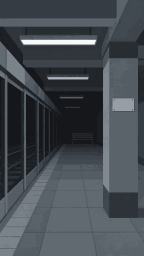
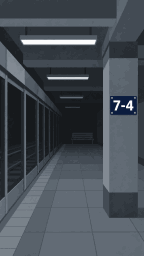
Add files via upload

Changed region(s): [[0.75, 0.375, 0.9722, 0.4688], [0.3333, 0.2812, 0.6111, 0.3125]]

diff --git a/index.html b/index.html
@@ -116,6 +116,8 @@
   .propwrap { width: calc(var(--u) * 144); height: calc(var(--u) * 192); overflow: hidden; flex: none; }
   .propcv.still { animation: none !important; }
   .propcv { position: static; width: 100%; height: 100%; transform-origin: 50% 55%; animation: push 7s steps(14) forwards; }
+  .propcv.smile { animation: none; transform-origin: 50% 37%; } .propcv.smile.in { animation: creep 4.2s steps(42) forwards; }
+  @keyframes creep { from { transform: scale(1); } to { transform: scale(1.26); } }
   @keyframes push { from { transform: scale(1); } to { transform: scale(1.09); } }
   .proptext { white-space: pre-line; margin-top: calc(var(--u) * 5); color: #d2d2cb; }
   #ov.doc { background: rgba(0, 0, 0, .9); justify-content: flex-start; padding-top: calc(var(--u) * 16); }
@@ -157,9 +159,10 @@
   .scr.sheet .ink.psig { font-family: "Galmuri11", monospace; font-size: calc(var(--u) * 9); letter-spacing: calc(var(--u) * 1); color: #1c2a66; }
   .scr.sheet .ink.cpy { color: #3a3a3c; }
   .scr.sheet .ink.ruled { line-height: calc(var(--u) * 8.35); color: #23304f; }
+  .scr.sheet .kbtn { position: absolute; width: calc(var(--u) * 28); height: calc(var(--u) * 27); border-radius: calc(var(--u) * 4); z-index: 3; cursor: pointer; } .scr.sheet .kbtn.on { background: rgba(255, 255, 255, .45); }
   .scr.sheet .ink.key { font-family: "Galmuri11", monospace; font-size: calc(var(--u) * 13); text-align: center; color: #1f3340; line-height: 1; }
   .scr.sheet .ink.ctr { text-align: center; }
-  .scr.sheet .overcv { position: absolute; left: 0; top: 0; }
+  .scr.sheet .overcv { position: absolute; left: 0; top: 0; z-index: 4; pointer-events: none; }
   .scr.sheet .ink.wh { color: #e6e6df; } .scr.sheet .ink.bl { color: #5b8cf0; } .scr.sheet .ink.rd { color: #ff5a4f; }
   .scr.sheet .ink.tight { line-height: 1.3; }
   .scr.sheet .ink.plateno { font-family: "Galmuri11", monospace; font-size: calc(var(--u) * 35); letter-spacing: 0; text-align: center; color: #17181c; line-height: 1; }
@@ -269,7 +272,7 @@
 <script>
 (function () {
   'use strict';
-  var ASSETS = {"bg": ["bg_a", "bg_b", "bg_empty_a", "bg_empty_b", "bg_shut1", "bg_shut2", "bg_shutter", "e1_booth", "e1_desk", "e1_door", "e1_hall", "e1_hospital", "e1_laundry", "e1_lot", "e1_platform", "e1_room", "e1_station", "e1_store", "e1_studio", "home", "landing"], "dohyeon": ["face_E0", "face_A1", "face_A2", "face_A3", "face_A4", "face_B1", "face_B2", "face_B3", "face_B4", "eye_E0_half", "eye_E0_closed", "mouth_E0_1", "mouth_E0_2", "mouth_A4_1", "mouth_A4_2", "mouth_B4_1", "mouth_B4_2", "breath_1", "breath_2", "breath_3", "breath_4", "breath_5"], "jiwu": ["face_E0", "face_P1_t1", "face_P1_t2", "face_P1_t3", "face_P1_t4", "face_P1", "face_P2_t1", "face_P2_t2", "face_P2_t3", "face_P2_t4", "face_P2", "eye_E0_half", "eye_E0_closed", "mouth_E0_1", "mouth_E0_2", "mouth_P1_1", "mouth_P1_2", "mouth_P2_1", "mouth_P2_2", "breath_1", "breath_2", "breath_3", "breath_4", "breath_5"], "malsun": ["face_E0", "face_A1", "face_A2", "face_A3", "face_A4", "face_P1_t1", "face_P1_t2", "face_P1_t3", "face_P1_t4", "face_P1", "eye_E0_half", "eye_E0_closed", "mouth_E0_1", "mouth_E0_2", "mouth_A4_1", "mouth_A4_2", "mouth_P1_1", "mouth_P1_2", "breath_1", "breath_2", "breath_3", "breath_4", "breath_5"], "minjae": ["face_E0", "face_A1", "face_A2", "face_A3", "face_A4", "face_B1", "face_B2", "face_B3", "face_B4", "face_C1", "face_C2", "face_C3", "face_C4", "face_P1_t1", "face_P1_t2", "face_P1_t3", "face_P1_t4", "face_P1", "face_P2_t1", "face_P2_t2", "face_P2_t3", "face_P2_t4", "face_P2", "eye_E0_half", "eye_E0_closed", "eye_B4_half", "eye_B4_closed", "mouth_E0_1", "mouth_E0_2", "mouth_A4_1", "mouth_A4_2", "mouth_B4_1", "mouth_B4_2", "mouth_C4_1", "mouth_C4_2", "mouth_P1_1", "mouth_P1_2", "mouth_P2_1", "mouth_P2_2", "breath_1", "breath_2", "breath_3", "breath_4", "breath_5"], "prop": ["call", "drawer_a", "drawer_b", "drawer_c", "e1_bag", "e1_bench", "e1_box", "e1_butts", "e1_carbag", "e1_card", "e1_cctv", "e1_chain", "e1_form", "e1_forms", "e1_hand", "e1_keypad", "e1_keypad_finger", "e1_lock", "e1_memo", "e1_mirror", "e1_navi", "e1_plate", "e1_rack", "e1_register", "e1_scarf", "e1_scarf_b", "e1_shelf", "lock", "p_card", "p_idcard", "p_idcopy", "p_ledger", "p_memo", "p_notice", "p_proxy", "p_receipt", "phone_back", "phone_front", "photo", "sticker", "umbrella", "wallet"], "seojin": ["face_E0", "face_A1", "face_A2", "face_A3", "face_A4", "face_B1", "face_B2", "face_B3", "face_B4", "face_P1_t1", "face_P1_t2", "face_P1_t3", "face_P1_t4", "face_P1", "eye_E0_half", "eye_E0_closed", "mouth_E0_1", "mouth_E0_2", "mouth_A4_1", "mouth_A4_2", "mouth_B4_1", "mouth_B4_2", "mouth_P1_1", "mouth_P1_2", "breath_1", "breath_2", "breath_3", "breath_4", "breath_5"], "taeho": ["face_E0", "face_B1", "face_B2", "face_B3", "face_B4", "face_P1_t1", "face_P1_t2", "face_P1_t3", "face_P1_t4", "face_P1", "face_P2_t1", "face_P2_t2", "face_P2_t3", "face_P2_t4", "face_P2", "eye_E0_half", "eye_E0_closed", "mouth_E0_1", "mouth_E0_2", "mouth_B4_1", "mouth_B4_2", "mouth_P1_1", "mouth_P1_2", "mouth_P2_1", "mouth_P2_2", "breath_1", "breath_2", "breath_3", "breath_4", "breath_5"]};
+  var ASSETS = {"bg": ["bg_a", "bg_b", "bg_empty_a", "bg_empty_b", "bg_shut1", "bg_shut2", "bg_shut3", "bg_shutter", "e1_booth", "e1_desk", "e1_door", "e1_hall", "e1_hospital", "e1_laundry", "e1_lot", "e1_platform", "e1_pstairs", "e1_room", "e1_stairs", "e1_station", "e1_store", "e1_studio", "home", "landing"], "dohyeon": ["face_E0", "face_A1", "face_A2", "face_A3", "face_A4", "face_B1", "face_B2", "face_B3", "face_B4", "eye_E0_half", "eye_E0_closed", "mouth_E0_1", "mouth_E0_2", "mouth_A4_1", "mouth_A4_2", "mouth_B4_1", "mouth_B4_2", "breath_1", "breath_2", "breath_3", "breath_4", "breath_5"], "jiwu": ["face_E0", "face_P1_t1", "face_P1_t2", "face_P1_t3", "face_P1_t4", "face_P1", "face_P2_t1", "face_P2_t2", "face_P2_t3", "face_P2_t4", "face_P2", "eye_E0_half", "eye_E0_closed", "mouth_E0_1", "mouth_E0_2", "mouth_P1_1", "mouth_P1_2", "mouth_P2_1", "mouth_P2_2", "breath_1", "breath_2", "breath_3", "breath_4", "breath_5"], "malsun": ["face_E0", "face_A1", "face_A2", "face_A3", "face_A4", "face_P1_t1", "face_P1_t2", "face_P1_t3", "face_P1_t4", "face_P1", "eye_E0_half", "eye_E0_closed", "mouth_E0_1", "mouth_E0_2", "mouth_A4_1", "mouth_A4_2", "mouth_P1_1", "mouth_P1_2", "breath_1", "breath_2", "breath_3", "breath_4", "breath_5"], "minjae": ["face_E0", "face_A1", "face_A2", "face_A3", "face_A4", "face_B1", "face_B2", "face_B3", "face_B4", "face_C1", "face_C2", "face_C3", "face_C4", "face_P1_t1", "face_P1_t2", "face_P1_t3", "face_P1_t4", "face_P1", "face_P2_t1", "face_P2_t2", "face_P2_t3", "face_P2_t4", "face_P2", "eye_E0_half", "eye_E0_closed", "eye_B4_half", "eye_B4_closed", "mouth_E0_1", "mouth_E0_2", "mouth_A4_1", "mouth_A4_2", "mouth_B4_1", "mouth_B4_2", "mouth_C4_1", "mouth_C4_2", "mouth_P1_1", "mouth_P1_2", "mouth_P2_1", "mouth_P2_2", "breath_1", "breath_2", "breath_3", "breath_4", "breath_5"], "prop": ["call", "drawer_a", "drawer_b", "drawer_c", "e1_bag", "e1_bench", "e1_box", "e1_butts", "e1_carbag", "e1_card", "e1_cctv", "e1_chain", "e1_form", "e1_forms", "e1_hand", "e1_keypad", "e1_lock", "e1_memo", "e1_mirror", "e1_navi", "e1_plate", "e1_rack", "e1_register", "e1_scarf", "e1_scarf_b", "e1_shelf", "e1_smile", "lock", "p_card", "p_idcard", "p_idcopy", "p_ledger", "p_memo", "p_notice", "p_proxy", "p_receipt", "phone_back", "phone_front", "photo", "sticker", "umbrella", "wallet"], "seojin": ["face_E0", "face_A1", "face_A2", "face_A3", "face_A4", "face_B1", "face_B2", "face_B3", "face_B4", "face_P1_t1", "face_P1_t2", "face_P1_t3", "face_P1_t4", "face_P1", "eye_E0_half", "eye_E0_closed", "mouth_E0_1", "mouth_E0_2", "mouth_A4_1", "mouth_A4_2", "mouth_B4_1", "mouth_B4_2", "mouth_P1_1", "mouth_P1_2", "breath_1", "breath_2", "breath_3", "breath_4", "breath_5"], "taeho": ["face_E0", "face_B1", "face_B2", "face_B3", "face_B4", "face_P1_t1", "face_P1_t2", "face_P1_t3", "face_P1_t4", "face_P1", "face_P2_t1", "face_P2_t2", "face_P2_t3", "face_P2_t4", "face_P2", "eye_E0_half", "eye_E0_closed", "mouth_E0_1", "mouth_E0_2", "mouth_B4_1", "mouth_B4_2", "mouth_P1_1", "mouth_P1_2", "mouth_P2_1", "mouth_P2_2", "breath_1", "breath_2", "breath_3", "breath_4", "breath_5"]};
 
   // ------------------------------------------------------------------ layout + helpers
   var root = document.documentElement, stage = document.getElementById('stage');
@@ -322,13 +325,6 @@
     if (B.name === 'landing' || B.name === 'home') { bctx.drawImage(img.bg[B.name], 0, 0); return; }
     if (B.name.indexOf('e1_') === 0) {              // episode 1 backdrops: received pictures, shown as they are
       bctx.drawImage(img.bg[B.name], 0, 0);
-      if (B.name === 'e1_platform') {               // the pillar plate is blank in the picture: 7-4 is written here
-        bctx.fillStyle = '#2b3038'; var x = 117;
-        ['7', '-', '4'].forEach(function (ch) {
-          if (ch === '-') { bctx.fillRect(x, 105, 2, 1); x += 3; return; }
-          var d = DIG[ch]; for (var i = 0; i < 15; i++) if (d.charAt(i) === '1') bctx.fillRect(x + i % 3, 103 + Math.floor(i / 3), 1, 1); x += 4;
-        });
-      }
       return;
     }
     var key = B.name.indexOf('bg_shut') === 0 ? B.name : B.name + (B.dim ? '_b' : '_a');
@@ -607,6 +603,18 @@
       docFinish = function () { clearTimeout(docTimer); if (!w.querySelector('.stick')) w.appendChild(sticker(false)); docDone(); };
       return [w, el('div', 'proptext fs', '‘경찰 인계 대기’\n스티커를 붙인다.')];
     },
+    smile: function () {                              // the man in the car: only two points of light, then his phone lights his mouth, then it comes closer
+      var c = el('canvas', 'propcv smile'); c.width = 144; c.height = 192;
+      var x = c.getContext('2d'), wrap = el('div', 'propwrap'); wrap.appendChild(c);
+      function dark() { x.drawImage(img.prop.e1_smile, 0, 0); x.fillStyle = 'rgba(0,0,0,.93)'; x.fillRect(0, 0, 144, 192); x.fillStyle = '#d3e9fb'; x.fillRect(60, 69, 1, 1); x.fillRect(84, 69, 1, 1); }
+      function lit() { x.drawImage(img.prop.e1_smile, 0, 0); }
+      dark(); docBusy = true;
+      docTimer = setTimeout(function () { lit();
+        docTimer = setTimeout(function () { dark();
+          docTimer = setTimeout(function () { lit(); c.classList.add('in');
+            docTimer = setTimeout(docDone, 3600); }, 110); }, 70); }, 1500);
+      return [wrap];
+    },
     prop: function (o) {                              // a close-up cut of one object, slowly pushing in
       var c = el('canvas', 'propcv'); c.width = 144; c.height = 192;
       var x = c.getContext('2d'); x.imageSmoothingEnabled = false; x.drawImage(img.prop[o.name], 0, 0);
@@ -705,7 +713,30 @@
       if (o.over) { var c2 = el('canvas', 'overcv'); c2.width = 144; c2.height = 192; var x2 = c2.getContext('2d'); x2.imageSmoothingEnabled = false; x2.drawImage(img.prop[o.over], 0, 0); w.appendChild(c2); }
       return o.text ? [w, el('div', 'proptext fs', o.text)] : [w];
     },
-    plate: function () { var w = sheet('e1_plate'); ink(w, 'plateno', '4412', 45, 85, 92); return [w]; },   // only the last four catch the light
+    keypad: function () {                             // the door lock: the player keys the code in. Wrong tries cost nothing; the thought under the picture says a little more each time
+      var w = sheet('e1_keypad'), keys = ['1', '2', '3', '4', '5', '6', '7', '8', '9', '*', '0', '#'], got = '', miss = 0;
+      var hint = ['걔 생일.', '걔 생일.\n4월생이다.', '4월 12일.\n0, 4, 1, 2.'];
+      var txt = el('div', 'proptext fs', ''), lock = false;
+      function paint(msg) { txt.textContent = (msg || hint[Math.min(miss, 2)]) + '\n' + [0, 1, 2, 3].map(function (i) { return i < got.length ? '●' : '○'; }).join(' '); }
+      keys.forEach(function (k, i) {
+        var b = el('div', 'kbtn'); b.style.left = 'calc(var(--u) * ' + [25.5, 57.5, 89][i % 3] + ')'; b.style.top = 'calc(var(--u) * ' + [37, 70, 103, 136.5][Math.floor(i / 3)] + ')';
+        b.addEventListener('click', function () {
+          if (lock || !docBusy) return;
+          b.classList.add('on'); setTimeout(function () { b.classList.remove('on'); }, 140);
+          if (k === '*' || k === '#') { got = ''; return paint(); }
+          got += k; paint();
+          if (got.length < 4) return;
+          lock = true;
+          if (got === '0412') { paint('열린다.'); docTimer = setTimeout(function () { docBusy = false; next(); }, 650); return; }
+          miss++; stage.classList.add('shake'); paint('삐빅.');
+          docTimer = setTimeout(function () { stage.classList.remove('shake'); got = ''; lock = false; paint(); }, 520);
+        });
+        w.appendChild(b);
+      });
+      docBusy = true; paint();
+      return [w, txt];
+    },
+    plate: function () { return [sheet('e1_plate')]; },   // only the last four catch the light
     tp: function (o) {                                // a sheet with writing: o.h heading, o.t body, o.k extra class
       var w = el('div', 'tp fs-s ' + (o.k || '')); if (o.h) w.appendChild(el('div', 'h', o.h)); w.appendChild(el('div', null, o.t)); return [w];
     },
@@ -1117,23 +1148,31 @@
     var ph = F.PHONE, s = [
       { t: 'save', id: 'e1s1' }, { t: 'pov', who: DH },
       { t: 'cap', lines: [['', '백도현'], ['dim', '금요일 18:00']] }, CLK('금 18:00'), BG('e1_booth'),
-      N('민원실에서 들은 건 한 줄이다.\n집 앞에 누가 서 있었다고.\n주말 전에 습득 기록을 봐야 한다.'),
+      N('수요일에 맡은 실종 건이다.\n성인이라 급한 일은 아니라고 봤다.'),
+      N('방금 민원실에서 전화가 왔다.\n동생 집 앞에\n누가 자꾸 서 있었다고.'),
+      N('마지막 신호는 이 역이다.\n오늘 기록을 못 보면\n월요일까지 기다려야 한다.'),
       { t: 'enter', ch: 'jiwu' },
-      T(DH, '들어가도 되겠습니까.'), T(DH, '오늘 일을 순서대로\n듣겠습니다.'),
+      T(DH, '들어가도 되겠습니까.'), T(ME, '아, 네…\n잠시만요.'),
+      C('셔터를 조금 올린다.'),
+      T(DH, '서평경찰서 백도현입니다.'), T(DH, '윤서연 씨 실종 건\n담당입니다.'),
+      T(ME, '실종이요…?\n아까 그 언니분 동생이요?'),
+      T(DH, '네.'), T(DH, '그 휴대폰 때문에\n왔습니다.'),
+      T(ME, '아까 물으신 거요…\n찾으러 온 사람이\n또 있었어요.'),
+      T(DH, '오늘 일을 순서대로\n듣겠습니다.'),
       N('마감 시간이다.\n오래 붙잡을 수는 없다.'),
       { t: 'pick5', id: 'q1', word: '물을 수 있는 건', unit: '번', items: [
         { label: '찾으러 온 사람이 몇 명이었습니까?', steps: function () { return [T(DH, '그 휴대폰을 찾으러 온 사람이\n몇 명이었습니까?'), T(ME, '두 명이요.'), T(ME, '언니분, 그리고\n남자친구라는 분.')]; } },
-        { label: '남자가 뭘 내밀었습니까?', steps: function () {
-          F.q2 = 1;
-          var r = [T(DH, '남자가 뭘 내밀었습니까?'), T(ME, '위임장하고 신분증이요.\n강민재.'), T(ME, '서류는 빠진 게\n없었어요.')];
-          if (F.ASK_CALL) r.push(T(ME, '오늘 2시 10분에 받았다는\n문자도 보여줬어요.'), T(ME, '그 휴대폰은 수요일부터\n여기 있었는데요.'));
-          return r; } },
         { label: '휴대폰은 지금 어디 있습니까?', steps: function () {
           var r = [T(DH, '휴대폰은 지금\n어디 있습니까?')];
           if (ph === '센터') r.push(T(ME, '서랍에 있습니다.'));
           if (ph === '언니') r.push(T(ME, '언니분께 드렸습니다.', { face: 'P2' }), T(ME, '규정 위반인 건 압니다.'), { t: 'fx', face: 'E0' },
             C('휴대폰을 꺼내\n서에 전화를 건다.'), T(DH, '…접니다. 윤서진 씨가 낸\n휴대폰, 들어와 있습니까?'), T(DH, '…네.'), T(DH, '확인했습니다.'));
           if (ph === '민재') r.push(T(ME, '…그분께 내드렸습니다.', { face: 'P2' }), T(ME, '서류가 다 맞아서요.'), { t: 'fx', face: 'E0' });
+          return r; } },
+        { label: '남자가 뭘 내밀었습니까?', steps: function () {
+          F.q2 = 1;
+          var r = [T(DH, '남자가 뭘 내밀었습니까?'), T(ME, '위임장하고 신분증이요.\n강민재.'), T(ME, '서류는 빠진 게\n없었어요.')];
+          if (F.ASK_CALL) r.push(T(ME, '오늘 2시 10분에 받았다는\n문자도 보여줬어요.'), T(ME, '그 휴대폰은 수요일부터\n여기 있었는데요.'));
           return r; } },
         { label: '남자가 한 말 중에 걸리는 게?', steps: function () {
           var r = [T(DH, '남자가 한 말 중에\n걸리는 게 있었습니까?')];
@@ -1152,7 +1191,9 @@
       s = s.concat(give('E6')); s.push(N('서류는 완벽했다.')); }
     s.push(R(function () { return F.q2 ? [] : [T(DH, '그 남자, 이름은\n기억나십니까?'), T(ME, '강민재요.\n위임장이랑 신분증에서 봤어요.')]; }),
       T(DH, '오늘 말씀하신 건\n제가 다 받아 적었습니다.'), T(DH, '퇴근길에 누가 따라오면\n바로 전화 주세요.'),
-      { t: 'exit' }, { t: 'run', fn: e1s2 });
+      T(ME, '…저,\n그분 괜찮은 거죠?'), T(DH, '찾는 중입니다.'),
+      { t: 'exit' }, C('셔터가 끝까지\n내려간다.'), N('괜찮다고는\n말할 수 없었다.'),
+      { t: 'run', fn: e1s2 });
     return s;
   }
 
@@ -1161,7 +1202,12 @@
     function look(n, shot, line, x) { return function () { F.L2.push(n); return [typeof shot === 'string' ? C(shot) : shot, N(line, x)]; }; }
     return [
       { t: 'save', id: 'e1s2' }, { t: 'pov', who: ME },
-      { t: 'cap', lines: [['', '한지우'], ['dim', '금요일 18:40']] }, CLK('금 18:40'), BG('e1_lot'),
+      { t: 'cap', lines: [['', '한지우'], ['dim', '금요일 18:40']] }, CLK('금 18:40'), { t: 'bg', name: 'bg_shut3', time: '18:40' },
+      N('형사가 가고 나서\n대장을 몇 번이나 다시 맞춰 봤다.'),
+      N('박 주임님께 문자를 쓰다 지웠다.\n뭐라고 써야 할지 모르겠다.'),
+      R(function () { return F.PHONE === '민재' ? [C('6번 칸이\n비어 있다.'), N('규정대로 했다.\n…그런데.')] : []; }),
+      C('서랍을 잠근다.\n가방을 멘다.\n불을 끈다.'),
+      BG('e1_lot'),
       N('형사는 명함을 두고 갔다.\n누가 따라오면\n전화하라고 했다.'),
       N(F.PHONE !== '민재' ? '그 남자는\n내 이름을 안다.' : '그 남자는\n휴대폰을 가져갔다.'),
       C('시동이 걸린 검은 차 한 대.\n차 안에서 불빛이\n켜졌다 꺼진다.'),
@@ -1175,7 +1221,8 @@
         { label: '진열대 끝 볼록거울', steps: look(5, { t: 'doc', id: 'prop', opt: { name: 'e1_mirror', text: '내 모습이 비친다.' } }, '얼굴 하얗네.') }
       ] },
       C('운전석 남자의 고개가\n천천히 편의점 쪽으로 돈다.'),
-      N('봤다.', { spd: 130, shake: 500 }),
+      { t: 'doc', id: 'smile' },
+      N('눈이 마주쳤다..!', { shake: 500 }),
       { t: 'choose', opts: [
         { label: '도현에게 전화한다', go: function () {
           F.CAR = 1;
@@ -1184,9 +1231,9 @@
           if (has(F.L2, 2)) r.push(T(ME, '조수석 문에 금색 체인 끈이\n끼어 있었어요.'));
           if (has(F.L2, 3)) r.push(T(ME, '바닥에 꽁초가 많았어요.'));
           return r.concat([T(DH, '거기 계세요.\n차가 가기 전엔 나오지 마세요.'), T(DH, '나머진 제가 봅니다.'),
-            C('차의 헤드라이트가 켜진다.\n차가 주차장을 빠져나간다.'), N('손이 아직 떨린다.')]); } },
+            C('차의 헤드라이트가 켜진다.\n차가 주차장을 빠져나간다.'), N('손이 아직 떨린다.'), N('오늘은\n택시를 탔다.')]); } },
         { label: '차가 갈 때까지 기다린다', go: function () {
-          return [N('아니다.\n퇴근하는 사람일 뿐이다.\n의식하지 말자.'), C('헤드라이트가 켜진다.\n차가 천천히 빠져나간다.'), N('…갔다.\n별일 아니었다.')]; } }
+          return [N('아니다.\n퇴근하는 사람일 뿐이다.\n의식하지 말자.'), C('헤드라이트가 켜진다.\n차가 천천히 빠져나간다.'), N('…갔다.\n별일 아니었다.'), N('그래도 오늘은\n택시를 탔다.')]; } }
       ] },
       { t: 'run', fn: e1s3 }];
   }
@@ -1197,11 +1244,13 @@
     return [
       { t: 'save', id: 'e1s3' }, { t: 'pov', who: SJ },
       { t: 'cap', lines: [['', '윤서진'], ['dim', '금요일 19:10']] }, CLK('금 19:10'), BG(),
-      N('형사가 동생 집을\n같이 보자고 했다.\n먼저 와 버렸다.'),
+      N('민원실 직원이\n형사한테 전화를 걸어 줬다.\n처음으로 누가 내 말을 들어 줬다.'),
+      R(function () { return F.PHONE === '언니' ? [N('휴대폰은 민원실에 맡겼다.\n증거물이라고 했다.')] : []; }),
+      N('형사가 동생 집을\n같이 보자고 했다.\n기다릴 수가 없어서 먼저 왔다.'),
+      BG('e1_stairs'),
       N('본가에도 전화해 봤다.\n엄마는 아무것도 모른다.'),
-      { t: 'doc', id: 'e1obj', opt: { pic: 'e1_keypad', over: 'e1_keypad_finger', inks: [['key', '1', 26.5, 43, 26], ['key', '2', 58, 43, 26], ['key', '3', 90, 43, 26], ['key', '4', 26.5, 76, 26], ['key', '5', 58, 76, 26], ['key', '6', 90, 76, 26], ['key', '7', 26.5, 109.5, 26], ['key', '8', 58, 109.5, 26], ['key', '9', 90, 109.5, 26], ['key', '*', 26.5, 143, 26], ['key', '0', 58, 143, 26], ['key', '#', 90, 143, 26]] } },
-      N('걔 생일.', { spd: 130 }),
-      { t: 'act', label: '0 · 4 · 1 · 2' },
+      BG(),
+      { t: 'doc', id: 'keypad' },
       BG('e1_studio'), C('문이 열린다.'),
       N('수요일 아침에 왔을 땐\n그냥 빈집인 줄 알았다.\n고양이 밥만 주고 갔다.'),
       { t: 'pick5', id: 'l3', word: '살펴볼 수 있는 건', unit: '곳', items: [
@@ -1236,6 +1285,8 @@
       C('초인종.\n현관 앞, 형사의 목소리.'),
       T(DH, '동생분 휴대폰\n잠금 번호를 아십니까?'), T(SJ, '걔는 비밀번호를\n다 생일로 해요.\n0412.'),
       R(function () { return has(F.L3, 4) && !F.bagQ ? [T(SJ, '걔 가방도 없어요.\n금색 체인 달린 거요.')] : []; }),
+      T(DH, '동생분 방,\n제가 좀 보겠습니다.'),
+      N('형사가 동생 방에 들어온다.\n이제야 진짜 일이 된 것 같다.'),
       { t: 'run', fn: e1s4 }];
   }
 
@@ -1281,7 +1332,9 @@
   function e1s4() {
     var s = [
       { t: 'save', id: 'e1s4' }, { t: 'pov', who: DH },
-      { t: 'cap', lines: [['', '백도현'], ['dim', '금요일 20:00']] }, CLK('금 20:00'), BG('e1_desk'),
+      { t: 'cap', lines: [['', '백도현'], ['dim', '금요일 20:00']] }, CLK('금 19:58'), BG('e1_pstairs'),
+      N('원룸에서\n서로 돌아왔다.'),
+      CLK('금 20:00'), BG('e1_desk'),
       N('실종 나흘째.\n화요일 밤 이후\n그녀를 본 사람이 없다.'),
       N('기록이 오면\n강민재를 부른다.\n참고인은 언제든 일어나 나갈 수 있다.'),
       N('붙잡으려면\n그의 말을 깰\n기록이 있어야 한다.'),
@@ -1303,6 +1356,8 @@
     s.push({ t: 'req' },
       N('이제 무슨 짓을 했는지는\n그의 말을 깨서 밝혀야 한다.'),
       C('전화를 든다.'), T(DH, '강민재 씨죠.'), T(DH, '참고인으로 잠깐\n나와 주셔야겠습니다.'),
+      T(MJ, '…서연이 일이라면요.'), T(MJ, '지금 가겠습니다.'),
+      N('망설임이 없다.'), N('화요일 밤,\n그 역에서\n무슨 일이 있었던 걸까.'),
       { t: 'run', fn: e1s5 });
     return s;
   }
@@ -1353,8 +1408,11 @@
   function e1s6() {
     return [
       { t: 'save', id: 'e1s6' }, { t: 'pov', who: MJ },
-      { t: 'cap', lines: [['', '강민재'], ['dim', '금요일 21:30']] }, CLK('금 21:30'), BG('e1_room'),
-      N('참고인이다.\n안 오면 그게 더 이상하다.'),
+      { t: 'cap', lines: [['', '강민재'], ['dim', '금요일 21:30']] }, CLK('금 21:30'), BG('e1_hall'),
+      C('코트를 벗어\n팔에 건다.'),
+      N('전화를 받고\n바로 왔다.\n늦게 오면 그게 더 이상하다.'),
+      BG('e1_room'),
+      N('참고인이다.\n체포된 게 아니다.'),
       { t: 'enter', ch: 'dohyeon' },
       N('물어볼 건 정해져 있다.\n대답만 맞추면 된다.'),
       T(DH, '화요일 밤에\n어디 계셨습니까?'),
@@ -1660,7 +1718,7 @@
     if (P.mouth) { P.mouth = 0; draw(); }
   }
   function doc(s) {
-    show(ov, true); ov.className = 'fs doc' + (/^(prop|calling|lock|drawer|stick|memo|notice|ledger|receipt|card|proxy|idcard|idcopy|plate|e1obj|ecard)$/.test(s.id) ? ' prop' : '');
+    show(ov, true); ov.className = 'fs doc' + (/^(prop|smile|calling|lock|drawer|stick|memo|notice|ledger|receipt|card|proxy|idcard|idcopy|plate|keypad|e1obj|ecard)$/.test(s.id) ? ' prop' : '');
     docBusy = false; clearTimeout(docTimer); docDone = function () {};
     docs[s.id](s.opt).forEach(function (n) { ov.appendChild(n); });
     var sub = el('div', 'sub fs-s blink', s.id === 'drawer' ? '화면을 눌러 꺼내기' : '화면을 눌러 닫기'); ov.appendChild(sub);
